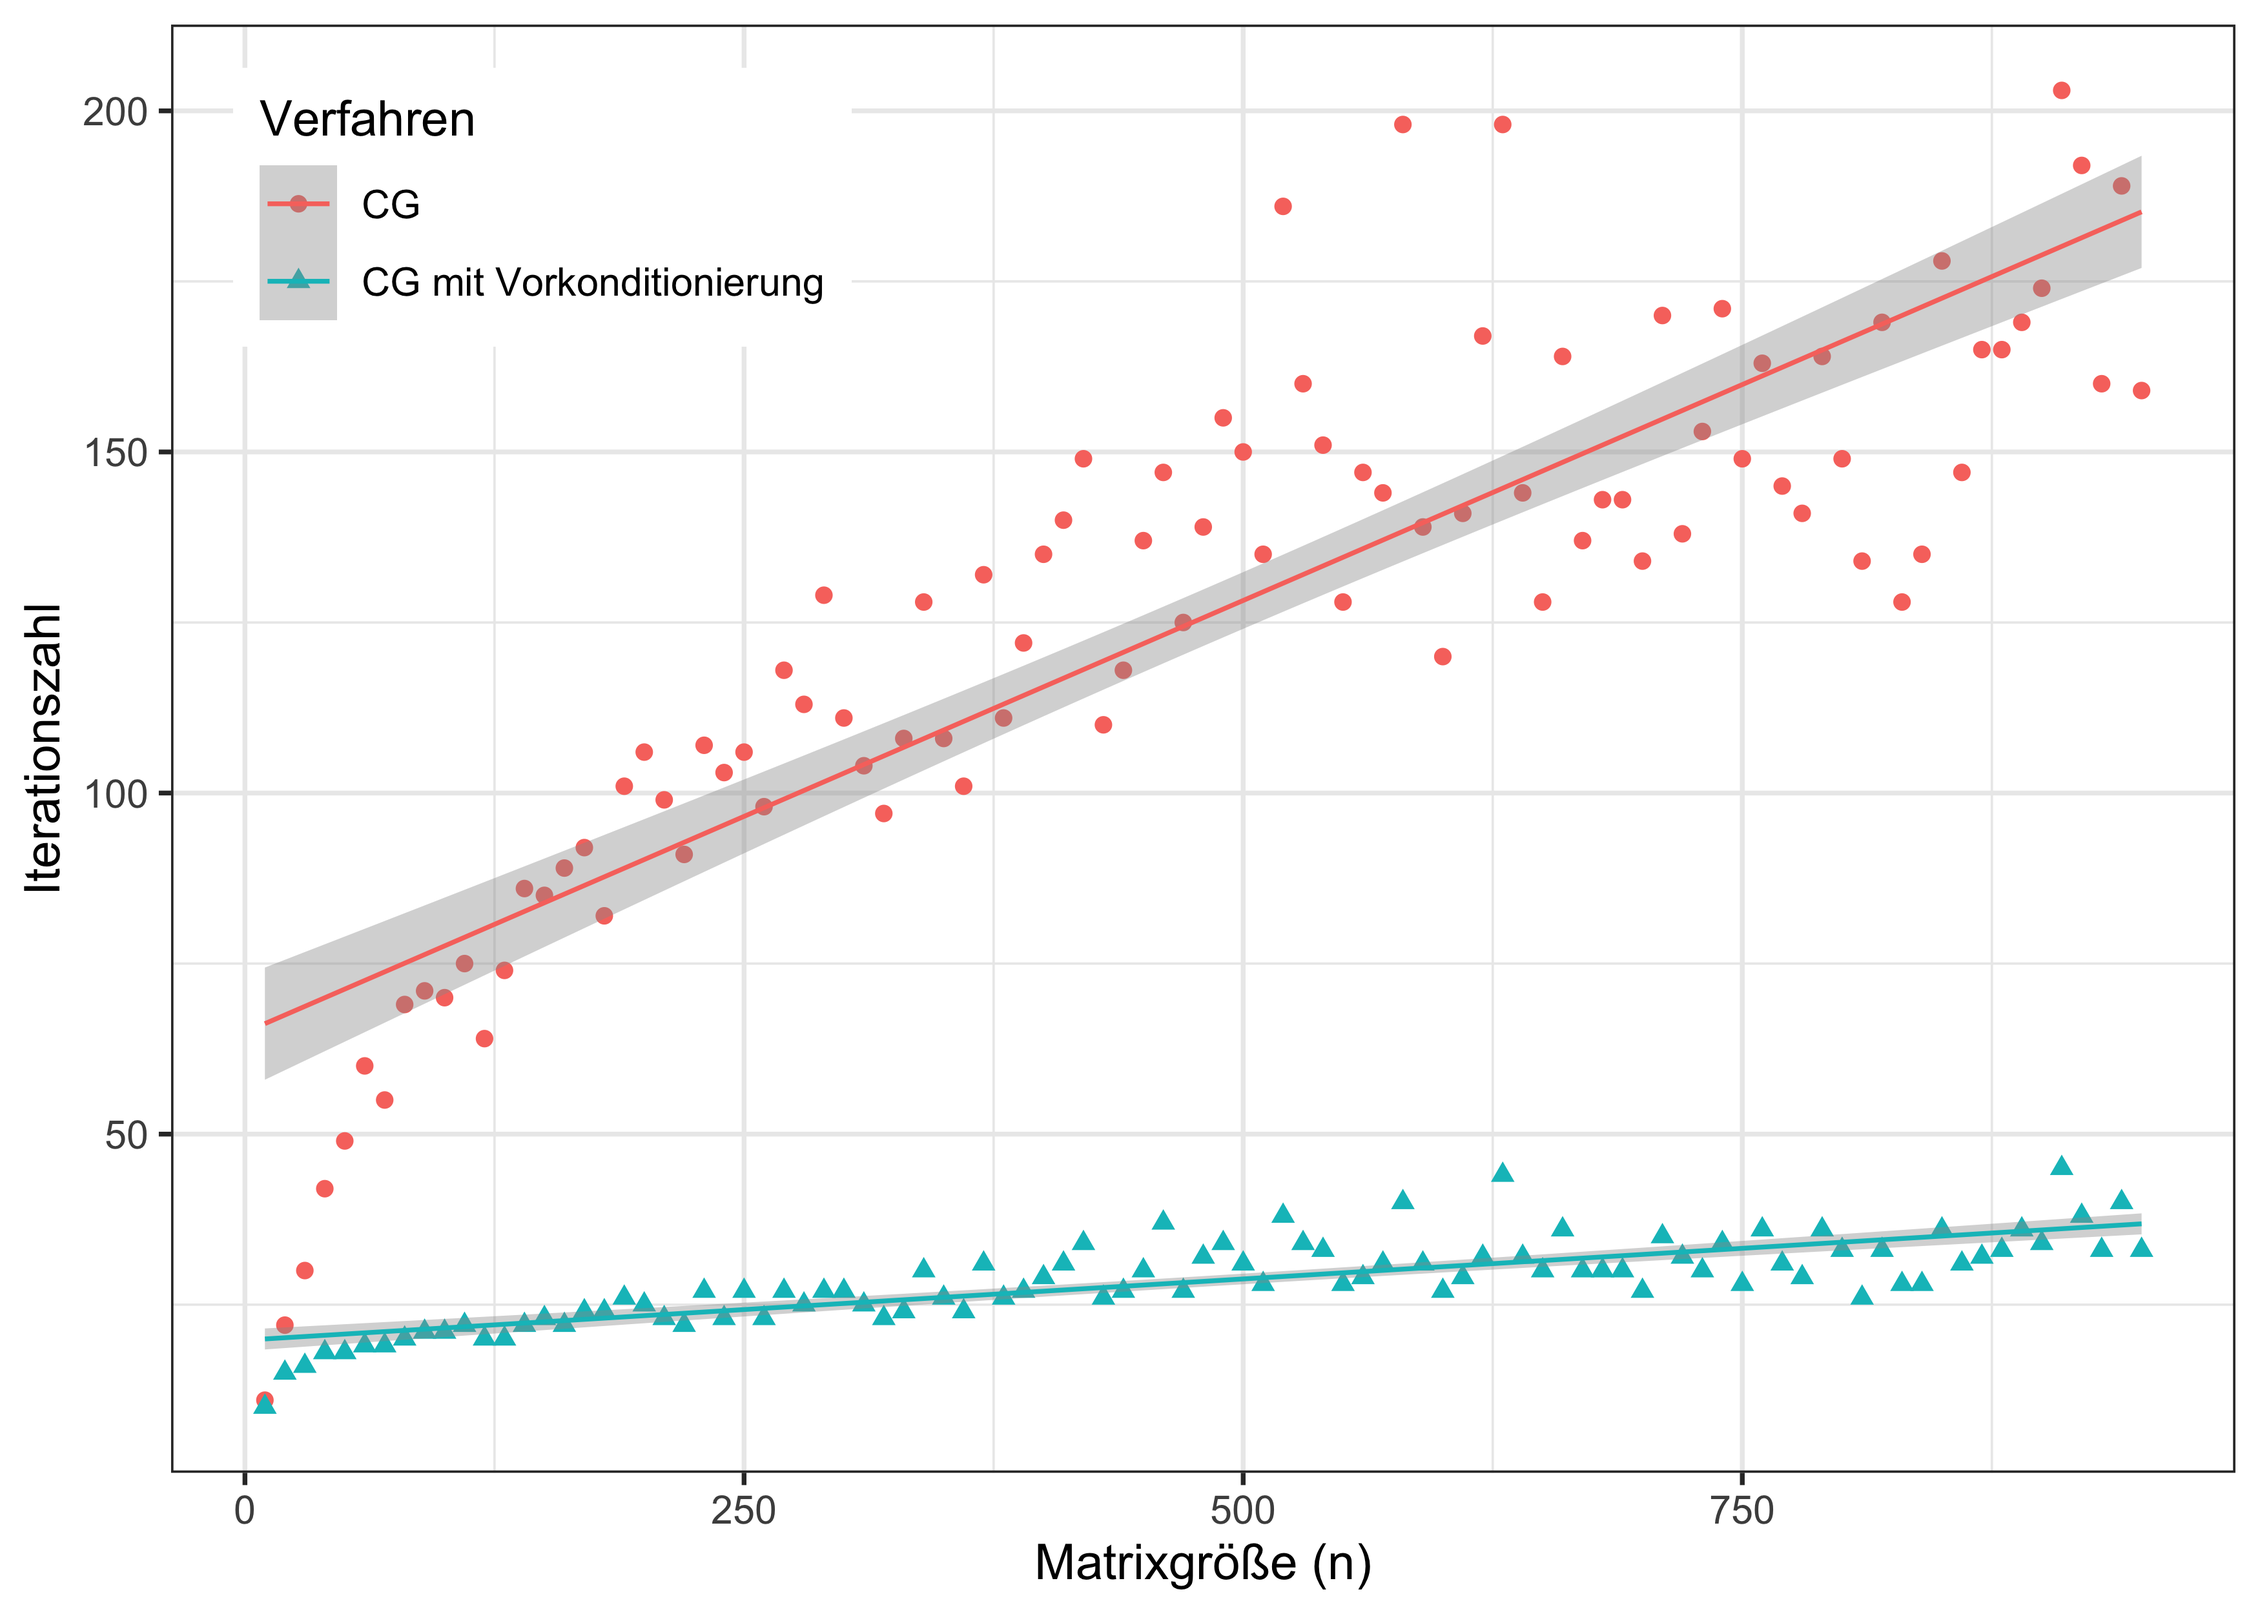
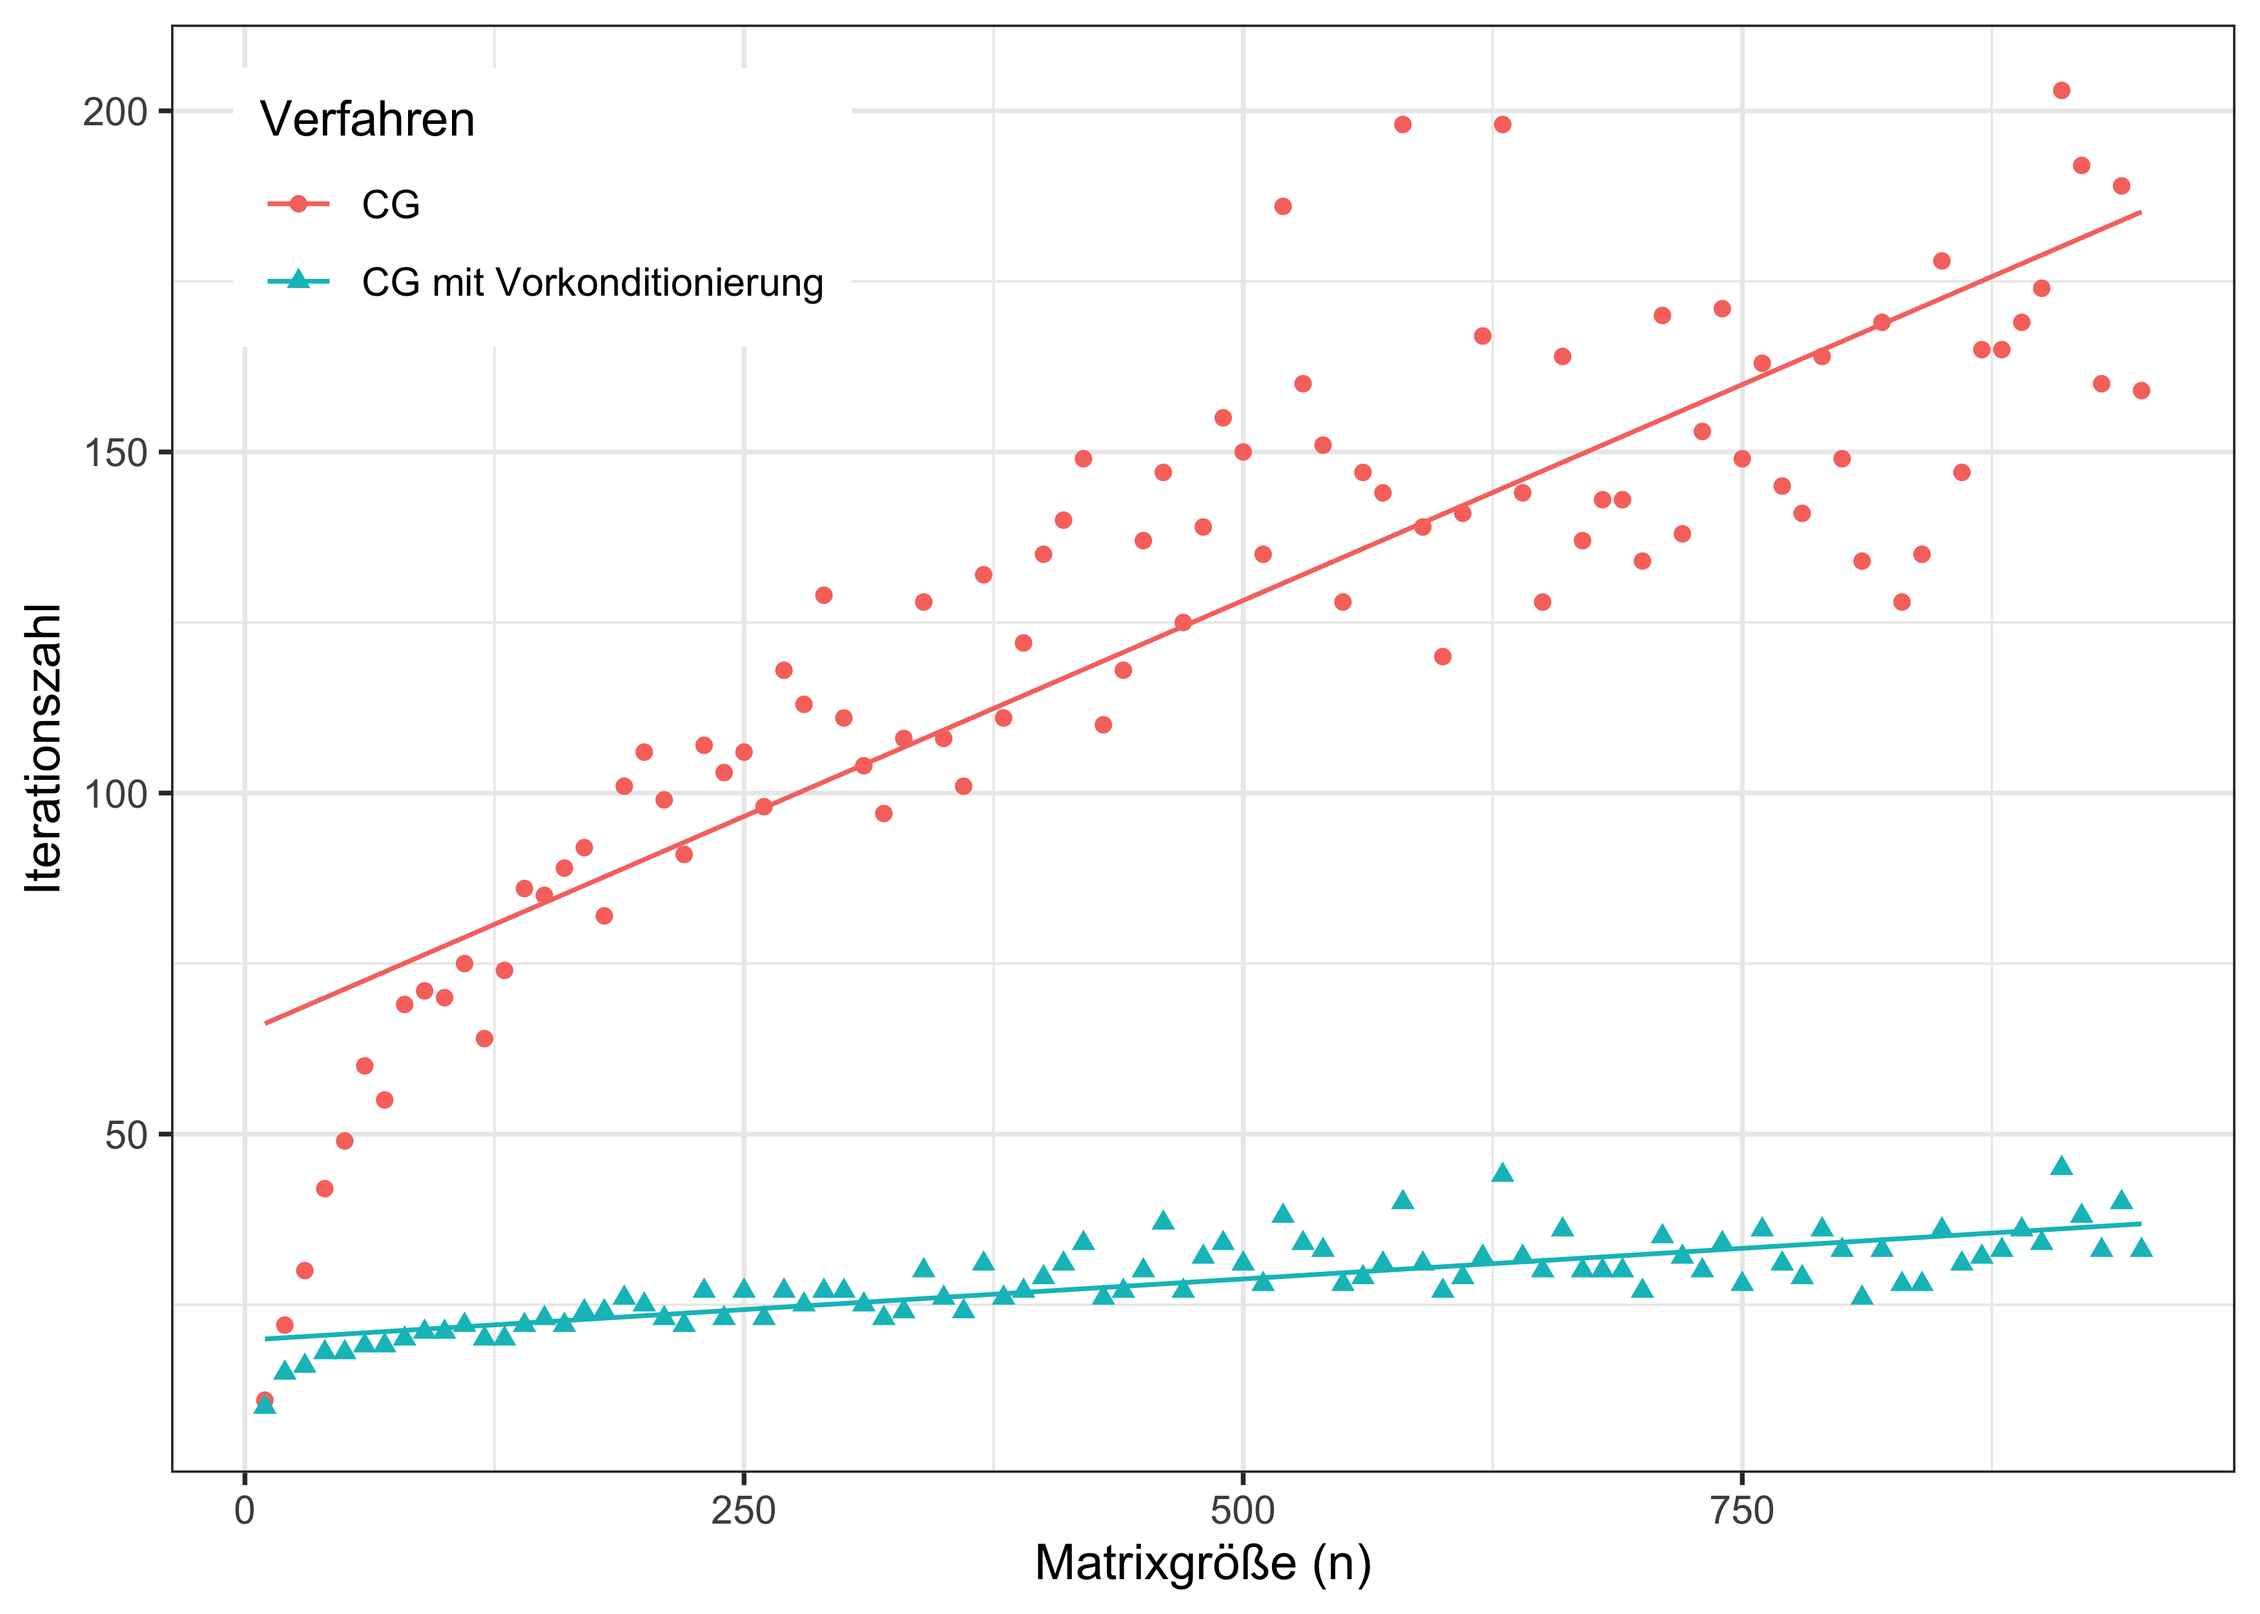
fussnote zu A,B,c,n in der plot beschriftung und aenderung erklaerung letzter plot

diff --git a/latex/aufgabe1.tex b/latex/aufgabe1.tex
@@ -516,24 +516,24 @@ date=short                % Datumsformat
 	In \cref{fig:vcg-vergleich} ist zu sehen, dass das Vorkonditionieren des Problems je nach Problem unterschiedlich gut funktioniert.
 	F\"ur strikt diagonaldominante Koeffizientenmatrizen wie in \cref{fig:precond-vs-cg} sind mit $P = diag(A_{11}, \ldots, A_{nn})$ aufgrund der kleineren Konditionszahl wesentlich weniger Iterationsschritte n\"otig, bzw. das vorkonditionierte CG-Verfahren konvergiert schneller. Dies funktioniert wie in \cref{fig:precond-vs-cg-ndiag} nicht f\"ur alle Koeffizientenmatrizen.
 		
-	
+	\newpage
+	\footnotetext[1]{$A,B\in \mathbb{R}^{n\times n},b\in \mathbb{R}^n,c\in \mathbb{R},n\in\mathbb{N}$}
 	\begin{figure}[H]
 	\begin{subfigure}[t]{0.5\textwidth}
 			\includegraphics[width=\linewidth]{../plots/precond-vs-cg.png}
-		\subcaption{strikt diagonaldominante Koeffizientenmatrix der Form $A = B+B^T+c\cdot diag(b)$}
+		\subcaption{Koeffizientenmatrix der Form $A = B+B^T+c\cdot diag(b)$\footnotemark}
 		\label{fig:precond-vs-cg}	
 	\end{subfigure}
 		\begin{subfigure}[t]{0.5\textwidth}
 				\includegraphics[width=\linewidth]{../plots/precond-vs-cg-ndiag.png}
-			\subcaption{Koeffizientenmatrix der Form $A = B+B^T+c\cdot I$}
+			\subcaption{Koeffizientenmatrix der Form $A = B+B^T+c\cdot I_n$}
 			\label{fig:precond-vs-cg-ndiag}	
 		\end{subfigure}
 	
 	\caption{Residuum nach Iterationsschritt $t$ f\"ur vorkonditioniertes CG- und CG-Verfahren}\label{fig:vcg-vergleich}
 	\end{figure}
 
-
-	F\"ur Matrizen bei denen das Vorkonditionieren gut funktioniert, bleibt die Iterationszahl f\"ur verschieden gro\ss e Probleme nahezu konstant und die Streuung wird geringer, wie an den Trendlinien und den Konfidenzintervallen in \cref{fig:precond-vs-cg-it} zu sehen ist.
+	F\"ur Matrizen bei denen das Vorkonditionieren gut funktioniert, steigt die Iterationszahl f\"ur gr\"o\ss er werdende Matrizen mit Vorkonditionierung wesentlich langsamer und die Streuung ist geringer als ohne, wie an den Trendlinien in \cref{fig:precond-vs-cg-it} zu sehen ist. 
 	
 	\begin{figure}[H]
 		\begin{center}
